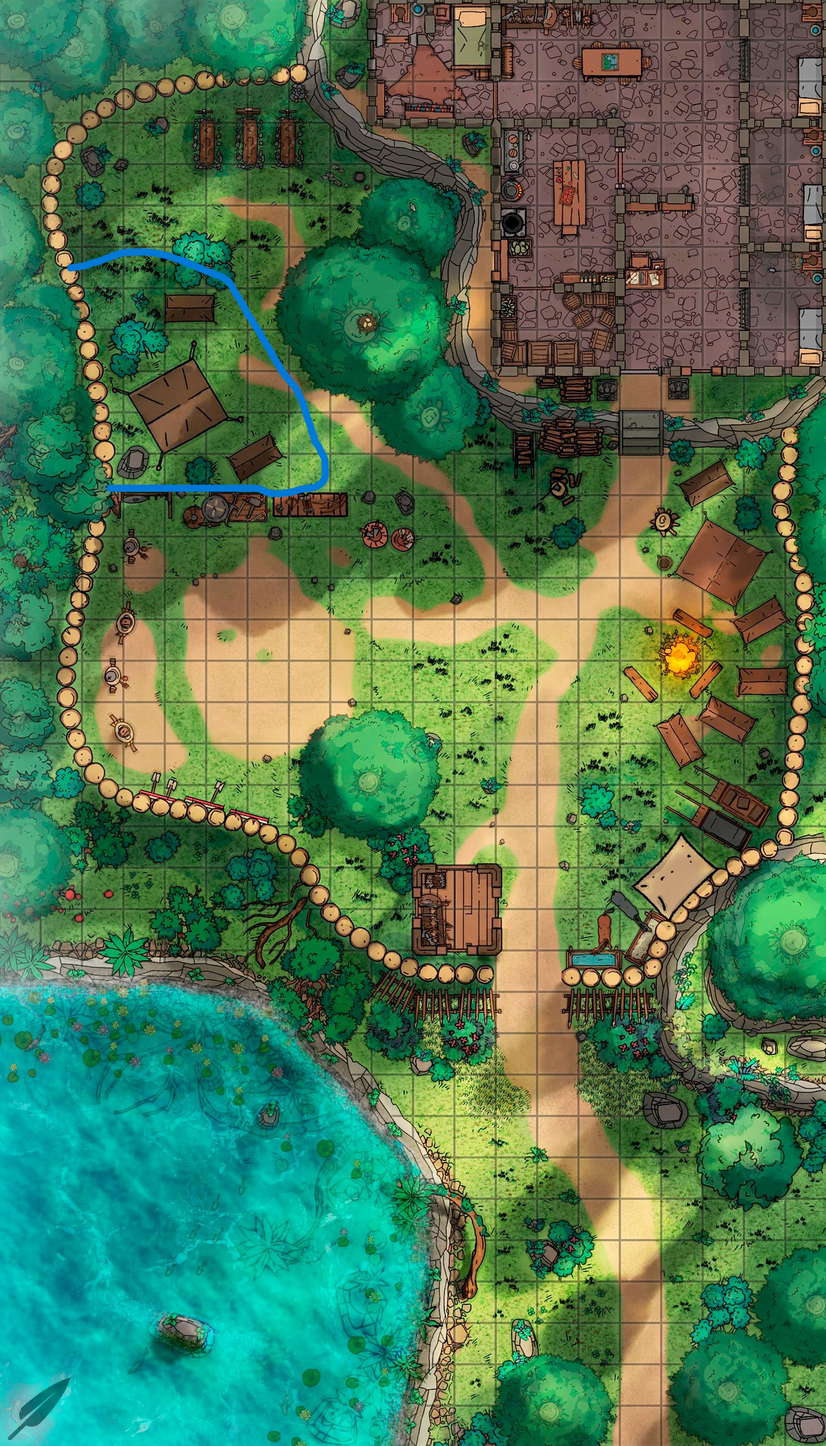
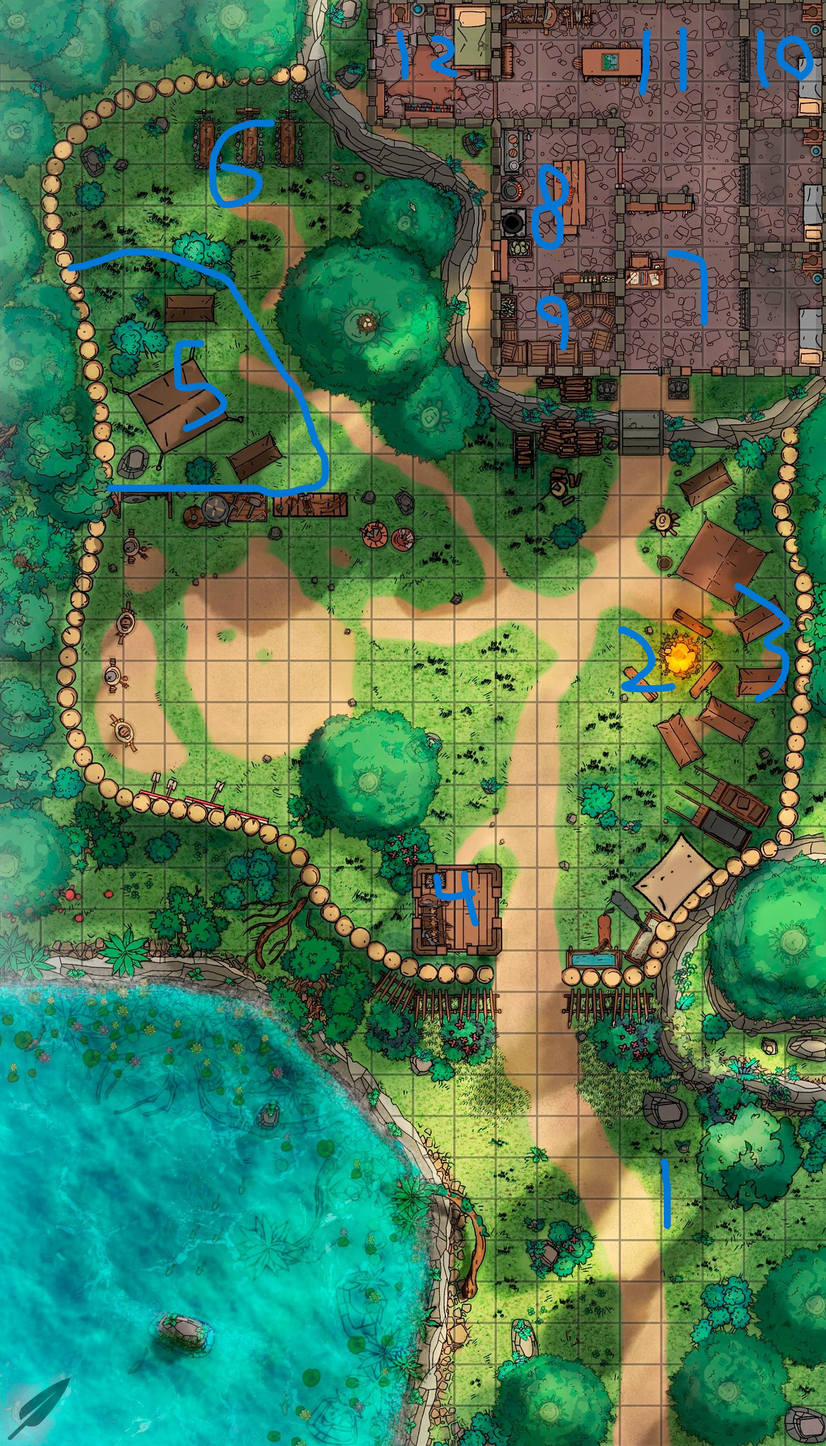
Marked up cannibbal camp map

diff --git a/Act 1 - Talking to Coconuts/Locations/Camp Cannibal.md b/Act 1 - Talking to Coconuts/Locations/Camp Cannibal.md
@@ -41,5 +41,5 @@ A 20 foot stairwell leads to this room which takes the entire floor. [[Rubrack t
 - Use the cultist statblock for the consorts: https://2e.aonprd.com/NPCs.aspx?ID=927
 - The Payroll contains 440 sp and 15 gp
 
-Area 12: Balcony
+Area 13: Balcony
 This balcony has a view of the sea as well as the entirety of the camp. It is a 20 foot drop into the camp below.
